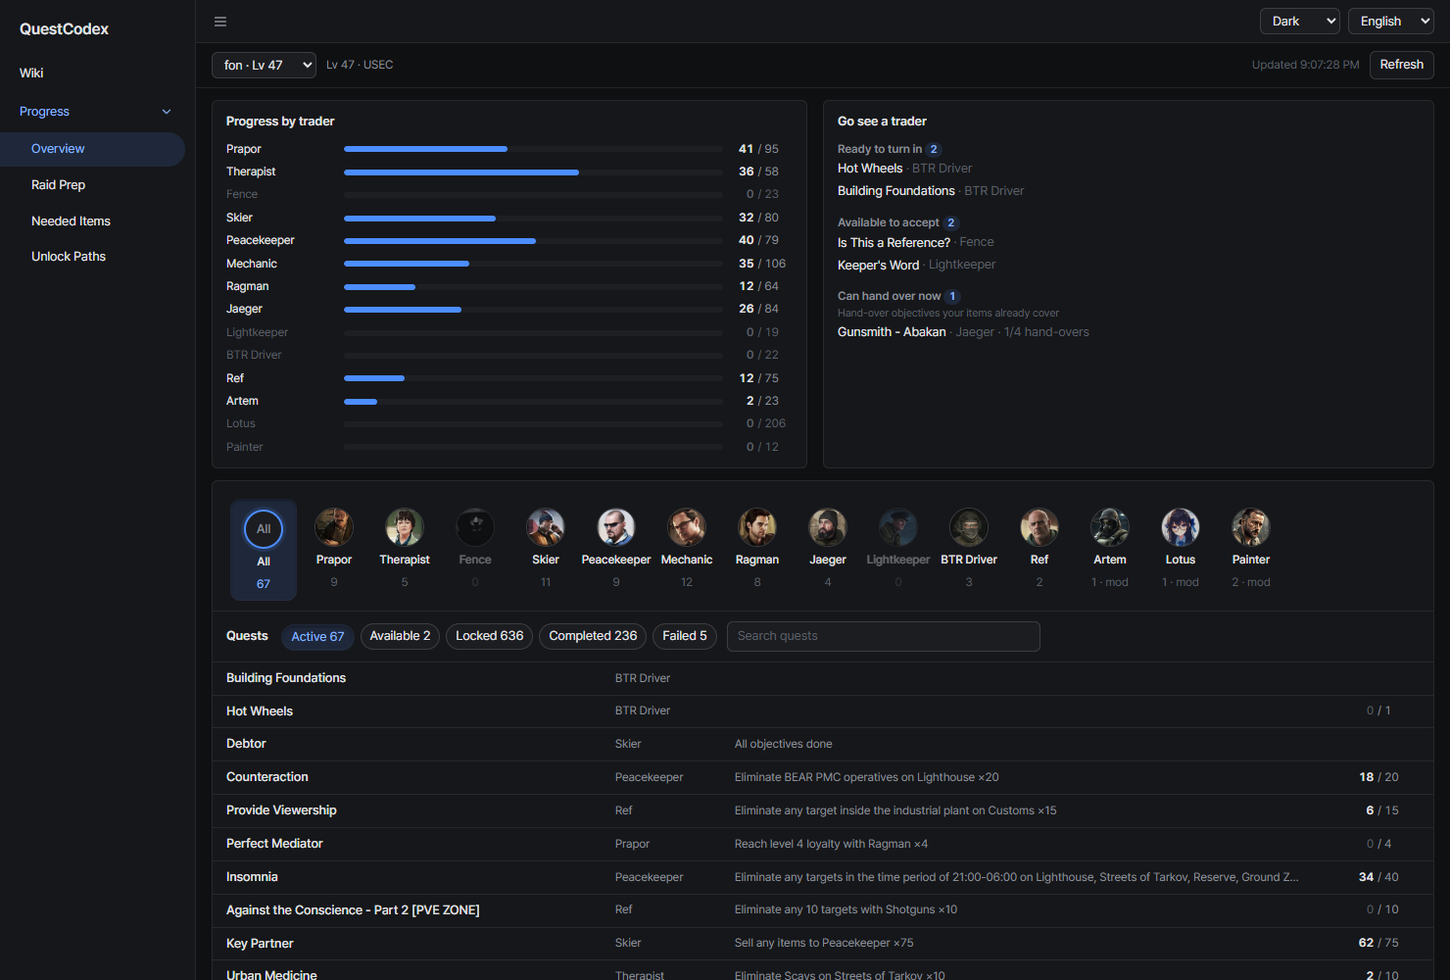
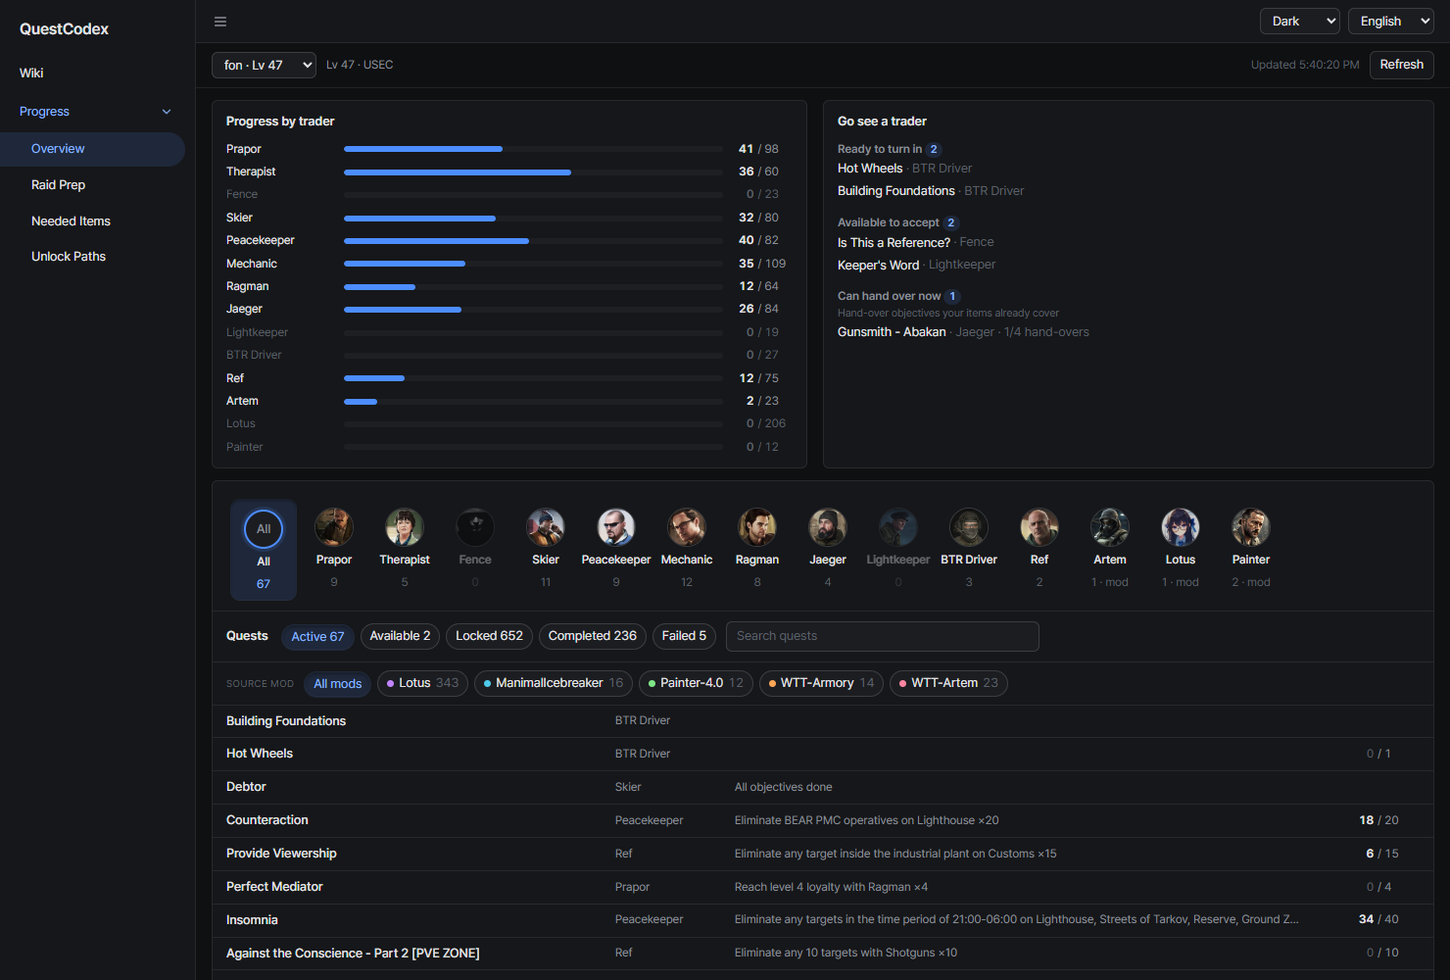
Update the docs for 1.5.0
- Add the source mod filter to the wiki quest list and the overview
- Describe the Extracts toggle on the quest locations map and the raid prep map
- Add Icebreaker and Expanded Interchange sections to the quest details
- Note that raid prep shows a tab for every map the server has
- Extend the quest map coverage limitations with mod maps and extract data
- Add the Icebreaker map and mod filter screenshots, and retake the shots that show the new toggles, tabs and mod chips
- Fill the Korean and Russian translations and regenerate both

diff --git a/docs/_ru/wiki/quest-details.md b/docs/_ru/wiki/quest-details.md
@@ -37,10 +37,25 @@ nav_order: 2
 - Вкладки карт переключают карты, кнопки этажей переключают этажи. Красная точка на кнопке этажа означает, что на этом этаже тоже есть цели
 - Колесо — зум, перетаскивание — панорама, двойной клик — подогнать
 - **Запертые двери** показывает значки замков для запертых дверей и дверей с ключ-картами. Наведите на значок, чтобы увидеть нужный ключ
+- **Выходы** показывает выходы и переходы значками-щитами разного цвета для выходов ЧВК, общих и для Диких. Наведите на значок, чтобы увидеть название и сторону, а также условие (например, плата или снаряжение для подъёма) и шанс появления, если они есть. Выходы на других этажах показаны приглушённо
 
 QuestCodex не знает, каким заданиям нужен ключ, но карта доводит вас почти до конца: если маркер стоит рядом со значком замка, наведите на него, чтобы увидеть, какой ключ открывает эту дверь, и сами решите, брать ли его.
 
 [![Карта локаций задания]({{ '/assets/images/wiki-quest-map.png' | relative_url }})]({{ '/assets/images/wiki-quest-map.png' | relative_url }})
+
+### Ледокол {#icebreaker}
+
+Карта **Ледокола** подготовлена заранее, к SPT v5. А пока она появляется, как только на сервере есть локация Ледокол, например из мода, который её добавляет.
+
+- Этажи — это палубы корабля (`Палуба -3` … `Палуба 10`)
+- Кроме дверей под ключ и ключ-карту, подсказка двери описывает кодовые замки (с кодом, если он постоянный), двери, которые взрывают зарядом, и замёрзшие люки, которые отогревают газовой горелкой
+- Цели ремонта, привязанные к рубильнику, например щитки в Wiring the Vessel, тоже получают маркеры
+
+[![Карта Ледокола для Wiring the Vessel]({{ '/assets/images/wiki-quest-map-icebreaker.png' | relative_url }})]({{ '/assets/images/wiki-quest-map-icebreaker.png' | relative_url }})
+
+### Расширенная Развязка {#expanded-interchange}
+
+Если загружен мод, расширяющий Развязку, карта и её зоны заданий, области и запертые двери переключаются на расширенную версию, а вкладка называется **Развязка (расширенная)**. Без мода ничего не меняется.
 
 ## Предупреждения о ветках {#branch-warnings}
 

diff --git a/docs/_kr/wiki/quest-details.md b/docs/_kr/wiki/quest-details.md
@@ -37,10 +37,25 @@ nav_order: 2
 - 맵 탭으로 맵을, 층 버튼으로 층을 바꿉니다. 층 버튼의 빨간 점은 그 층에도 목표가 있다는 뜻입니다
 - 휠로 확대, 드래그로 이동, 더블클릭으로 전체 보기
 - **잠긴 문**(Locked doors)을 켜면 잠긴 문과 키카드 문에 자물쇠 아이콘이 표시되고, 마우스를 올리면 필요한 열쇠 이름이 나옵니다
+- **탈출구**(Extracts)를 켜면 탈출구와 환승 지점이 방패 아이콘으로 표시됩니다. PMC·공용·스캐브 탈출구는 색으로 구분됩니다. 마우스를 올리면 이름과 진영이 나오고, 조건(예: 요금, 등반 장비)과 등장 확률이 있으면 같이 나옵니다. 다른 층의 탈출구는 흐리게 그려집니다
 
 어떤 퀘스트에 열쇠가 필요한지는 QuestCodex가 직접 알려 주지 않습니다. 대신 지도에서 마커 주변에 자물쇠 아이콘이 있다면, 마우스를 올려 어떤 열쇠로 여는 문인지 확인하고 그 열쇠를 챙겨 갈지 어느 정도 짐작할 수 있습니다.
 
 [![퀘스트 위치 지도]({{ '/assets/images/wiki-quest-map.png' | relative_url }})]({{ '/assets/images/wiki-quest-map.png' | relative_url }})
+
+### 아이스브레이커 {#icebreaker}
+
+SPT v5를 앞두고 **아이스브레이커**(Icebreaker) 지도를 미리 준비했습니다. 그전까지는 모드 등으로 서버에 아이스브레이커 맵이 들어오면 바로 표시됩니다.
+
+- 층 버튼은 배의 데크입니다(`데크 -3` ~ `데크 10`)
+- 문 툴팁은 열쇠·키카드 문 말고도 키패드 문(코드가 고정이면 코드 포함), 폭약으로 여는 문, 가스 토치로 녹이는 얼어붙은 해치까지 알려 줍니다
+- **배에 선을 대다**(Wiring the Vessel)의 차단기 수리처럼 스위치를 가리키는 수리 목표에도 마커가 찍힙니다
+
+[![배에 선을 대다의 아이스브레이커 지도]({{ '/assets/images/wiki-quest-map-icebreaker.png' | relative_url }})]({{ '/assets/images/wiki-quest-map-icebreaker.png' | relative_url }})
+
+### 확장된 인터체인지 {#expanded-interchange}
+
+인터체인지를 확장하는 모드가 로드돼 있으면 지도와 퀘스트 구역·영역·잠긴 문이 확장판으로 바뀌고, 탭 이름도 **확장된 인터체인지**(Interchange (Expanded))로 나옵니다. 모드가 없으면 아무것도 바뀌지 않습니다.
 
 ## 택일 분기 경고 {#branch-warnings}
 

diff --git a/docs/wiki/quest-details.md b/docs/wiki/quest-details.md
@@ -38,12 +38,32 @@ out when no objective has location data.
 - Map tabs switch maps, and floor buttons switch floors. A red dot on a floor button means that floor has objectives too
 - Wheel to zoom, drag to pan, double-click to fit
 - **Locked doors** shows lock icons for locked doors and keycard doors. Hover one to see the key it needs
+- **Extracts** shows extracts and transits as shield icons, colored for PMC, shared and scav extracts.
+  Hover one to see its name and side, plus its requirement (e.g. a fee or climbing gear) and spawn chance
+  when it has them. Extracts on other floors are drawn dimmed
 
 QuestCodex doesn't know which quests need a key, but the map gets you most of the way: if a marker sits
 next to a lock icon, hover it to see which key opens that door, and you can judge for yourself whether to
 bring it.
 
 [![Quest locations map](../assets/images/wiki-quest-map.png)](../assets/images/wiki-quest-map.png)
+
+### Icebreaker
+
+The Icebreaker map is ready ahead of SPT v5. Until then, it shows up as soon as your server has the
+Icebreaker location, for example from a mod that adds it.
+
+- Floors are the ship's decks (`Deck -3` to `Deck 10`)
+- Besides key and keycard doors, the door tooltip covers keypad doors (with the code when it's fixed),
+  doors you blow open with an explosive charge and frozen hatches you melt with a gas torch
+- Repair objectives that point at a switch, like the breaker panels in Wiring the Vessel, get markers too
+
+[![Icebreaker map for Wiring the Vessel](../assets/images/wiki-quest-map-icebreaker.png)](../assets/images/wiki-quest-map-icebreaker.png)
+
+### Expanded Interchange
+
+If a mod that expands Interchange is loaded, the map and its quest zones, areas and locked doors switch to
+the expanded version, and the tab reads **Interchange (Expanded)**. Without it, nothing changes.
 
 ## Branch warnings
 

diff --git a/docs/_ru/progress/raid-prep.md b/docs/_ru/progress/raid-prep.md
@@ -19,7 +19,7 @@ nav_order: 2
 
 ## Вкладки карт {#map-tabs}
 
-Каждая вкладка карты показывает, сколько открытых целей на ней есть.
+Каждая вкладка карты показывает, сколько открытых целей на ней есть. Карта, которая есть на сервере, получает вкладку, даже если на ней ещё нет заданий (например, Ледокол), так что можно заранее посмотреть её выходы и запертые двери.
 
 [![Вкладки карт]({{ '/assets/images/progress-raid-maps.png' | relative_url }})]({{ '/assets/images/progress-raid-maps.png' | relative_url }})
 
@@ -37,6 +37,7 @@ nav_order: 2
 
 - Строки заданий несут тот же цветной номер, что и их маркеры. Наведите на любую сторону, чтобы подсветить другую
 - Кнопки этажей, области целей и переключатель «Запертые двери» работают как в вики. Значки замков рядом с маркером говорят, какой ключ, возможно, стоит взять
+- **Выходы** показывает выходы и переходы карты. Наведите на значок, чтобы проверить условие и шанс появления, прежде чем планировать отход
 
 [![Карточка карты]({{ '/assets/images/progress-raid-map-card.png' | relative_url }})]({{ '/assets/images/progress-raid-map-card.png' | relative_url }})
 

diff --git a/docs/_ru/limitations.md b/docs/_ru/limitations.md
@@ -22,7 +22,9 @@ QuestCodex читает таблицы заданий, которые серве
 ## Покрытие карт заданий {#quest-map-coverage}
 
 - У некоторых заданий нет данных о локации, поэтому их цели не отображаются на карте.
-- Задания модов показываются на карте только когда мод определяет свои зоны в данных, которые сервер может прочитать.
+- Задания модов показываются на карте только когда мод определяет свои зоны в данных, которые сервер может прочитать, или когда QuestCodex уже содержит их позиции (как у заданий Ледокола).
+- Карты, добавленные модами, рисуются только если в QuestCodex есть для них карта (сейчас Ледокол и расширенная Развязка).
+- Позиции выходов и переходов берутся из встроенных данных, поэтому выход, добавленный или перемещённый модом, может отсутствовать или стоять не там.
 - QuestCodex не отслеживает, какие ключи у вас есть. Значки замков говорят, какой ключ нужен для двери, и не более.
 
 ## Пути открытия {#unlock-paths}

diff --git a/docs/_ru/wiki/quest-list.md b/docs/_ru/wiki/quest-list.md
@@ -25,6 +25,16 @@ nav_order: 1
 
 [![Поиск, чипы фильтров и сортировка]({{ '/assets/images/wiki-filters.png' | relative_url }})]({{ '/assets/images/wiki-filters.png' | relative_url }})
 
+## Фильтр по моду {#mod-filter}
+
+Если на сервере есть задания модов и чип «Модовые» включён, под строкой фильтров появляется строка **Мод-источник**. Моды часто добавляют задания ванильным торговцам, так что это самый быстрый способ увидеть всё, что добавил один мод.
+
+- Выберите один или несколько модов. **Все моды** сбрасывает выбор
+- Фильтр сочетается с фильтром по торговцу, а строка торговцев пересчитывается для выбранных модов
+- Точки на чипах того же цвета, что и метки модов в списке
+
+[![Фильтр по моду-источнику]({{ '/assets/images/wiki-mod-filter.png' | relative_url }})]({{ '/assets/images/wiki-mod-filter.png' | relative_url }})
+
 ## Сортировка {#sorting}
 
 - **По цепочке** (по умолчанию): предварительные условия всегда выше заданий, которые они открывают

diff --git a/docs/_kr/progress/raid-prep.md b/docs/_kr/progress/raid-prep.md
@@ -19,7 +19,7 @@ nav_order: 2
 
 ## 맵 탭 {#map-tabs}
 
-맵 탭마다 남은 목표 수가 표시됩니다.
+맵 탭마다 남은 목표 수가 표시됩니다. 아이스브레이커처럼 아직 퀘스트가 없는 맵도 서버에 있으면 탭이 생겨서, 탈출구와 잠긴 문을 미리 볼 수 있습니다.
 
 [![맵 탭]({{ '/assets/images/progress-raid-maps.png' | relative_url }})]({{ '/assets/images/progress-raid-maps.png' | relative_url }})
 
@@ -37,6 +37,7 @@ nav_order: 2
 
 - 퀘스트 행에 마커와 같은 색의 번호가 붙습니다. 한쪽에 마우스를 올리면 다른 쪽도 강조됩니다
 - 층 버튼, 목표 영역, **잠긴 문**(Locked doors) 토글은 위키와 같습니다. 마커 근처의 자물쇠 아이콘으로 챙겨 갈 열쇠를 짐작할 수 있습니다
+- **탈출구**(Extracts)를 켜면 이 맵의 탈출구와 환승 지점이 표시됩니다. 마우스를 올려 조건과 등장 확률을 보고 나갈 길을 정할 수 있습니다
 
 [![지도 카드]({{ '/assets/images/progress-raid-map-card.png' | relative_url }})]({{ '/assets/images/progress-raid-map-card.png' | relative_url }})
 

diff --git a/docs/_ru/progress/overview.md b/docs/_ru/progress/overview.md
@@ -33,7 +33,7 @@ nav_order: 1
 
 ## Задания по статусу {#quests-by-status}
 
-Все задания сгруппированы по статусу, с поиском и той же строкой торговца, что и в вики. Задания модов несут метку своего мода.
+Все задания сгруппированы по статусу, с поиском и той же строкой торговца, что и в вики. Задания модов несут метку своего мода. Под вкладками статусов находится тот же [фильтр по моду]({{ '/ru/wiki/quest-list.html#mod-filter' | relative_url }}), и счётчики вкладок и строка торговцев следуют выбранным модам.
 
 Нажмите на задание, чтобы развернуть те же детали, что и в вики (описание, гид, карта локаций, предупреждение о ветке, награды, связанные задания), плюс ваш прогресс:
 

diff --git a/docs/_kr/limitations.md b/docs/_kr/limitations.md
@@ -22,7 +22,9 @@ JSON 파일이 아니라 C# 코드(`CustomQuestService.CreateQuest()`)로 추가
 ## 퀘스트 지도 표시 범위 {#quest-map-coverage}
 
 - 위치 정보가 없는 일부 퀘스트는 목표가 지도에 표시되지 않습니다.
-- 모드 퀘스트는 모드가 서버에서 읽을 수 있는 데이터로 구역을 정의한 경우에만 지도에 표시됩니다.
+- 모드 퀘스트는 모드가 서버에서 읽을 수 있는 데이터로 구역을 정의했거나, QuestCodex가 위치를 미리 담아 둔 경우(아이스브레이커 퀘스트)에만 지도에 표시됩니다.
+- 모드가 추가한 맵은 QuestCodex가 지도를 갖고 있을 때만 그려집니다(현재 아이스브레이커와 확장된 인터체인지).
+- 탈출구·환승 위치는 내장 데이터에서 가져오므로, 모드가 추가하거나 옮긴 탈출구는 빠지거나 위치가 다를 수 있습니다.
 - 어떤 열쇠를 가지고 있는지는 확인하지 않습니다. 자물쇠 아이콘은 그 문에 필요한 열쇠만 알려 줍니다.
 
 ## 해금 경로 {#unlock-paths}

diff --git a/docs/_kr/wiki/quest-list.md b/docs/_kr/wiki/quest-list.md
@@ -25,6 +25,16 @@ nav_order: 1
 
 [![검색, 필터 칩, 정렬]({{ '/assets/images/wiki-filters.png' | relative_url }})]({{ '/assets/images/wiki-filters.png' | relative_url }})
 
+## 출처 모드 필터 {#mod-filter}
+
+서버에 모드 퀘스트가 있고 `모드`(Mod) 칩이 켜져 있으면 필터 줄 아래에 **출처 모드**(Source mod) 줄이 나타납니다. 모드는 바닐라 상인에게 퀘스트를 붙이는 경우가 많아서, 한 모드가 추가한 퀘스트를 한 번에 모아 보기 좋습니다.
+
+- 모드를 하나 이상 고릅니다. **전체 모드**(All mods)를 누르면 선택이 풀립니다
+- 상인 필터와 같이 걸리고, 상인 줄 숫자도 고른 모드 기준으로 다시 셉니다
+- 칩의 점 색은 목록의 모드 태그 색과 같습니다
+
+[![출처 모드 필터]({{ '/assets/images/wiki-mod-filter.png' | relative_url }})]({{ '/assets/images/wiki-mod-filter.png' | relative_url }})
+
 ## 정렬 {#sorting}
 
 - **연계순**(By chain, 기본값): 선행 퀘스트가 항상 후속 퀘스트보다 위에 옵니다

diff --git a/docs/progress/raid-prep.md b/docs/progress/raid-prep.md
@@ -18,7 +18,8 @@ Pick the map you're about to play and see everything your active quests want the
 
 ## Map tabs
 
-Each map tab shows how many open objectives it has.
+Each map tab shows how many open objectives it has. A map your server has gets a tab even with no quests on
+it yet, such as the Icebreaker, so you can still check its extracts and locked doors.
 
 [![Map tabs](../assets/images/progress-raid-maps.png)](../assets/images/progress-raid-maps.png)
 
@@ -40,6 +41,8 @@ with all the quests on this map at once.
 - Quest rows carry the same colored number as their markers. Hover either side to highlight the other
 - Floor buttons, objective areas and the **Locked doors** toggle work like in the wiki. Lock icons near a
   marker tell you which key you may want to bring
+- **Extracts** shows the map's extracts and transits. Hover one to check its requirement and spawn chance
+  before you plan your way out
 
 [![Map card](../assets/images/progress-raid-map-card.png)](../assets/images/progress-raid-map-card.png)
 

diff --git a/docs/limitations.md b/docs/limitations.md
@@ -25,7 +25,12 @@ no file trace, so their source mod can't be identified. Those get a generic `mod
 ## Quest map coverage
 
 - A few quests have no location data, so their objectives don't appear on the map.
-- Mod quests show on the map only when the mod defines its zones in data the server can read.
+- Mod quests show on the map only when the mod defines its zones in data the server can read, or when
+  QuestCodex already ships their positions (the Icebreaker quests do).
+- Maps a mod adds are drawn only when QuestCodex ships a map for them (currently the Icebreaker and the
+  expanded Interchange).
+- Extract and transit positions come from bundled data, so an extract a mod adds or moves may be missing
+  or misplaced.
 - QuestCodex doesn't track which keys you own. Lock icons tell you which key a door needs, nothing more.
 
 ## Unlock paths
